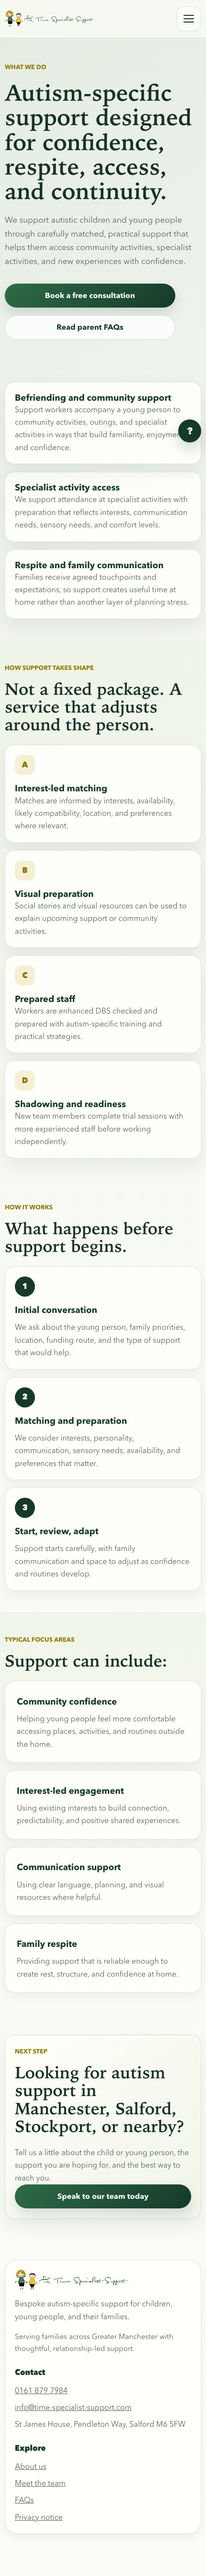
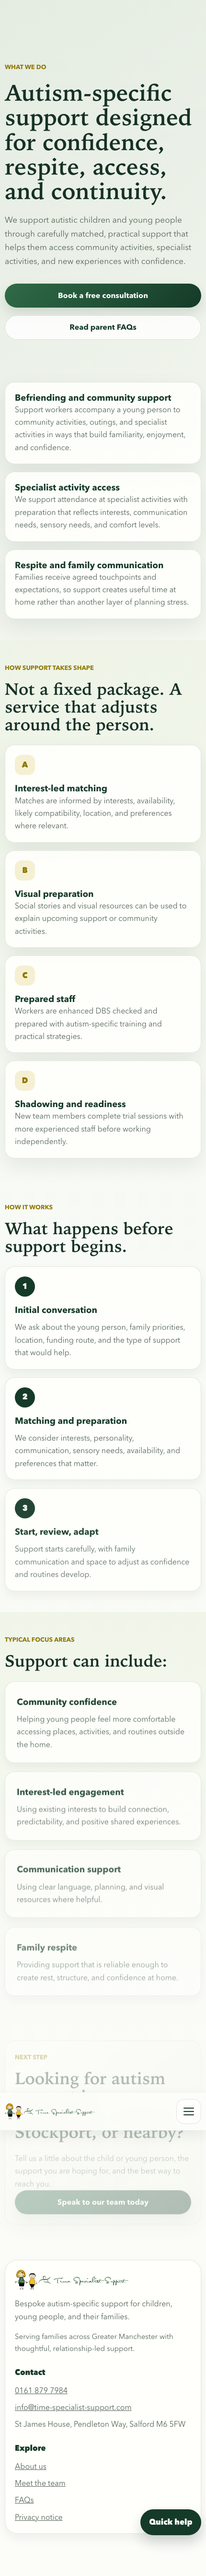
New movile view

diff --git a/scripts/mobile-screenshots.js b/scripts/mobile-screenshots.js
@@ -7,10 +7,17 @@ const outputDir = path.join(process.cwd(), "screenshots", "mobile");
 
 const pages = [
     "index.html",
+    "about.html",
     "services.html",
+    "careers.html",
+    "faq.html",
+    "resources.html",
     "contact.html",
     "team.html",
-    "support-workers.html"
+    "support-workers.html",
+    "privacy.html",
+    "thank-you.html",
+    "404.html"
 ];
 
 const viewports = [
@@ -21,6 +28,29 @@ const viewports = [
 
 const waitForPage = async (page) => {
     await page.waitForLoadState("networkidle", { timeout: 10000 }).catch(() => {});
+    await page.evaluate(() => document.fonts && document.fonts.ready).catch(() => {});
+};
+
+const prepareFullPage = async (page) => {
+    await page.evaluate(async () => {
+        const delay = (milliseconds) => new Promise((resolve) => setTimeout(resolve, milliseconds));
+        const viewportHeight = window.innerHeight || document.documentElement.clientHeight;
+        const pageHeight = Math.max(
+            document.body.scrollHeight,
+            document.documentElement.scrollHeight
+        );
+
+        for (let scrollTop = 0; scrollTop < pageHeight; scrollTop += Math.max(240, viewportHeight * 0.72)) {
+            window.scrollTo(0, scrollTop);
+            await delay(140);
+        }
+
+        window.scrollTo(0, pageHeight);
+        await delay(180);
+        window.scrollTo(0, 0);
+        await delay(180);
+    });
+
     await page.evaluate(() => document.fonts && document.fonts.ready).catch(() => {});
 };
 
@@ -42,6 +72,7 @@ const waitForPage = async (page) => {
             const url = `${baseUrl}/${pagePath}`;
             const response = await page.goto(url, { waitUntil: "domcontentloaded" });
             await waitForPage(page);
+            await prepareFullPage(page);
 
             const screenshotName = `${pagePath.replace(".html", "")}-${viewport.name}.png`;
             await page.screenshot({

diff --git a/style.css b/style.css
@@ -49,6 +49,10 @@ body.nav-open {
     overflow: hidden;
 }
 
+body.nav-open .chat-assistant {
+    display: none;
+}
+
 main {
     display: block;
 }
@@ -955,7 +959,8 @@ h3 {
 }
 
 .resource-card {
-    display: block;
+    display: grid;
+    gap: 0.35rem;
     text-decoration: none;
     transition: transform 0.2s ease, background-color 0.2s ease, box-shadow 0.2s ease;
 }
@@ -1666,6 +1671,7 @@ h3 {
 
     .site-nav {
         position: fixed;
+        z-index: 102;
         top: 88px;
         left: 1rem;
         right: 1rem;
@@ -1674,7 +1680,7 @@ h3 {
         padding: 1rem;
         border: 1px solid var(--line);
         border-radius: 24px;
-        background: rgba(252, 253, 249, 0.98);
+        background: var(--surface-solid);
         box-shadow: var(--shadow-lg);
         opacity: 0;
         pointer-events: none;
